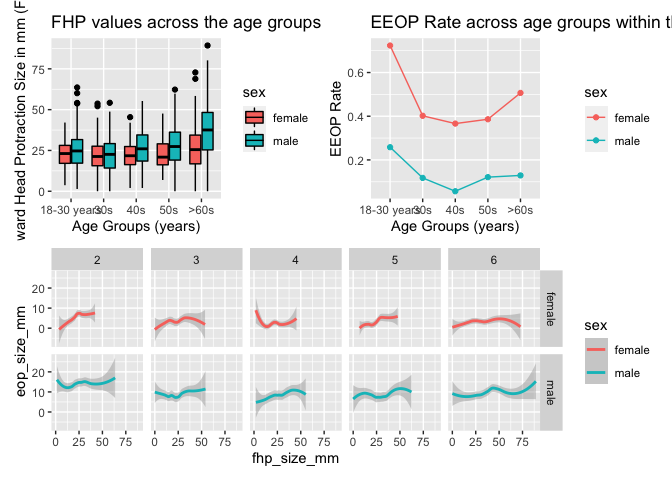
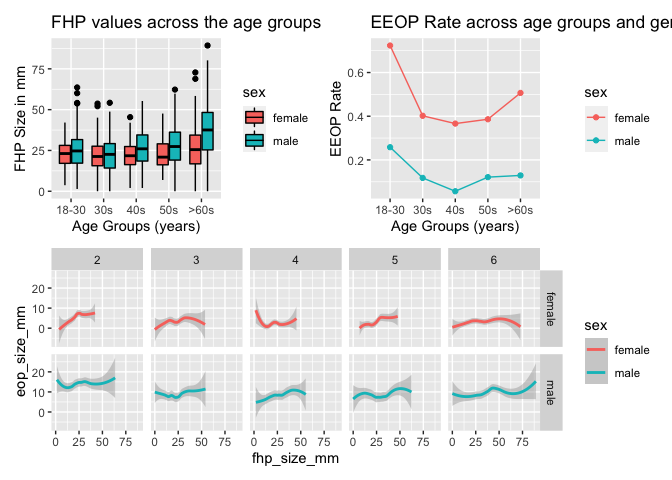
Revising the answers in previous problems; Finished problem 4

diff --git a/p8105_mtp_yz4187.md b/p8105_mtp_yz4187.md
@@ -5,11 +5,9 @@ Yiwen Zhao
 
 ### Introduction
 
-This project will use the correction data used in the report describing
-the relationship between posture and “enlarged protuberances” among
-young people which published in 2018 Nature Scientific Reports and try
-to find out a new analysis on the relationship through the new
-correction data.
+This project uses the correction data describing the relationship
+between posture and “enlarged protuberances” among people and makes new
+data analysis on relationships among different variables.
 
 ### Problem 1 - Data
 
@@ -63,15 +61,14 @@ df %>%
 | 5          | 200 |
 | 1          |   2 |
 
-**Description:** The data cleaning process starts with replacing all the
-na with either a zero (since the missing eop\_size(mm) in the dataset is
-0) or the mean value (since the mean value will not affect the results
-of following calculations). The key variables are sex, age\_group,
-eop\_size, fhp\_category. One categorical variable “eop\_detected” has
-been added to the data table to define whether the eop is detected.
-There are 1221 participants in total, and there are 614 females and 607
-males. The the most participants are in the 18-30 age group, and 914
-participants are under 60.
+**Description:** The data cleaning process starts with replacing NAs
+with either a zero (since the missing eop\_size(mm) in the dataset is 0)
+or the mean value (since the mean value will not affect the results of
+following calculations). Key variables are sex, age\_group, eop\_size,
+fhp\_size. One categorical variable “eop\_detected” has been added to
+the data table to define participants who have eop. There are 1221
+participants in total(614 females, 607 males). The most participants are
+in 18-30 age group, and 914 participants are under 60.
 
 ### Problem 2 - Visualization
 
@@ -83,11 +80,11 @@ fhp_plot =
          age_group = fct_collapse(age_group, "6" = c("6","7","8"))) %>%
   ggplot(aes(x = age_group, y = fhp_size_mm, fill = sex)) + geom_boxplot(colour = "black") +
   scale_x_discrete(
-    labels = c("18-30 years","30s","40s","50s",">60s")) +
+    labels = c("18-30","30s","40s","50s",">60s")) +
   labs(
-    title = "FHP values across the age groups and sexes",
+    title = "FHP values across the age groups and genders",
     x = "Age Groups (years)",
-    y = "Forward Head Protraction Size in mm (FHP)"
+    y = "FHP Size in mm"
     )
 ```
 
@@ -176,9 +173,9 @@ eeop_plot =
   rate_df %>%
   ggplot(aes(x = age_group, y = eeop_rate, group = sex, color = sex)) + geom_line() + geom_point() +
   scale_x_discrete(
-    labels = c("18-30 years","30s","40s","50s",">60s")) +
+    labels = c("18-30","30s","40s","50s",">60s")) +
   labs(
-    title = "EEOP Rate across age groups within the tested male and female cases",
+    title = "EEOP Rate across age groups and genders",
     x = "Age Groups (years)",
     y = "EEOP Rate"
     )
@@ -198,11 +195,9 @@ fhp_eop_plot =
 (fhp_plot + eeop_plot) / fhp_eop_plot
 ```
 
-    ## `geom_smooth()` using method = 'loess' and formula 'y ~ x'
-
 ![](p8105_mtp_yz4187_files/figure-gfm/unnamed-chunk-5-1.png)<!-- -->
 
-### Problem 3 - Reproducing Reported Skills
+### Problem 3 - Reproducing reported result
 
 ``` r
 df %>%
@@ -321,16 +316,20 @@ print(FHP_prevalence)
 
     ## [1] 0.3289037
 
-**Answer:** The authors’ stated sample sizes in each group are not
-consistent with the data we have but no big difference. The sample size
-we have is: 18–30 n=303, 31–40 n=204, 41–50 n=207, 51–60 n=200 and
-&gt;60 n=305. The mean of FHP is approximately consistent with the
-authors’ data. EEOP is the enlarged EOP which have exceeded 10 mm in
-size. Variables can used to evaluate this claim are EEOP\_size\_mm and
-number of participants. The prevalence of EEOP is 55.98%, which is not
-consistent with the authors’ data.The FHP is more common in older
-subjects. From our data, the FHP&gt;40mm is observed 32.89% in over 60s
-cases, which is a little lower than the authors’ data.
+**Answer:** The authors’ stated sample sizes are not consistent with the
+our sample sizes, but the difference is not obvious.The sample size we
+have is: 18–30 n=303, 31–40 n=204, 41–50 n=207, 51–60 n=200 and &gt;60
+n=305. The mean of FHP is approximately consistent with the authors’
+data. EEOP is the enlarged EOP which have exceeded 10 mm in size. we can
+use EEOP\_size\_mm, age\_group and number of participants to evaluate
+this claim. The prevalence of EEOP is 55.98% and is not consistent with
+the authors’ data.The FHP is more common in older subjects. From our
+data, the FHP&gt;40mm is observed 32.89% in &gt;60s cases, which is less
+than the authors’ result.
+
+### Problem 4 - Discussion
+
+    Comparing to our new data analysis, the original report is less accurate since its results are not completely consistent with our results even though the difference is not big. The authors' report is not clear enough to provide evidence that cell phones are causing horn growth since their graphs have not shown clear relationship between cell phone use and EOP/FNP. We got a higher prevalence of EEOP(58.98%) and a little lower prevalence of FHP>40mm than authors' data. According to our graphs and analysis, we can clearly see the relationships how FHP size, age, sex and EOP size are related to each other. Males and older age groups have more possibilities to get larger FHP than younger people and women, but the relationship between EOP size and FHP size is not very clear. With using EEOP rate, we find more accurate conclusion that both young age groups and age over 60s have a higher rate of EEOP. People who are over 60s are also more likely to have FHP than younger people. Thus, there is no clear evidence shows that younger people may have higher possibilities to get enlarged protuberances. To address the relationship between phone using and "horn" growth, we still need data on frequencies or total time each day people using phones in different age groups and genders.
 
 ``` r
 wordcountaddin::text_stats("p8105_mtp_yz4187.Rmd")
@@ -338,7 +337,7 @@ wordcountaddin::text_stats("p8105_mtp_yz4187.Rmd")
 
 | Method          | koRpus      | stringi       |
 |:----------------|:------------|:--------------|
-| Word count      | 297         | 260           |
-| Character count | 1651        | 1651          |
-| Sentence count  | 19          | Not available |
-| Reading time    | 1.5 minutes | 1.3 minutes   |
+| Word count      | 493         | 452           |
+| Character count | 2807        | 2807          |
+| Sentence count  | 29          | Not available |
+| Reading time    | 2.5 minutes | 2.3 minutes   |
